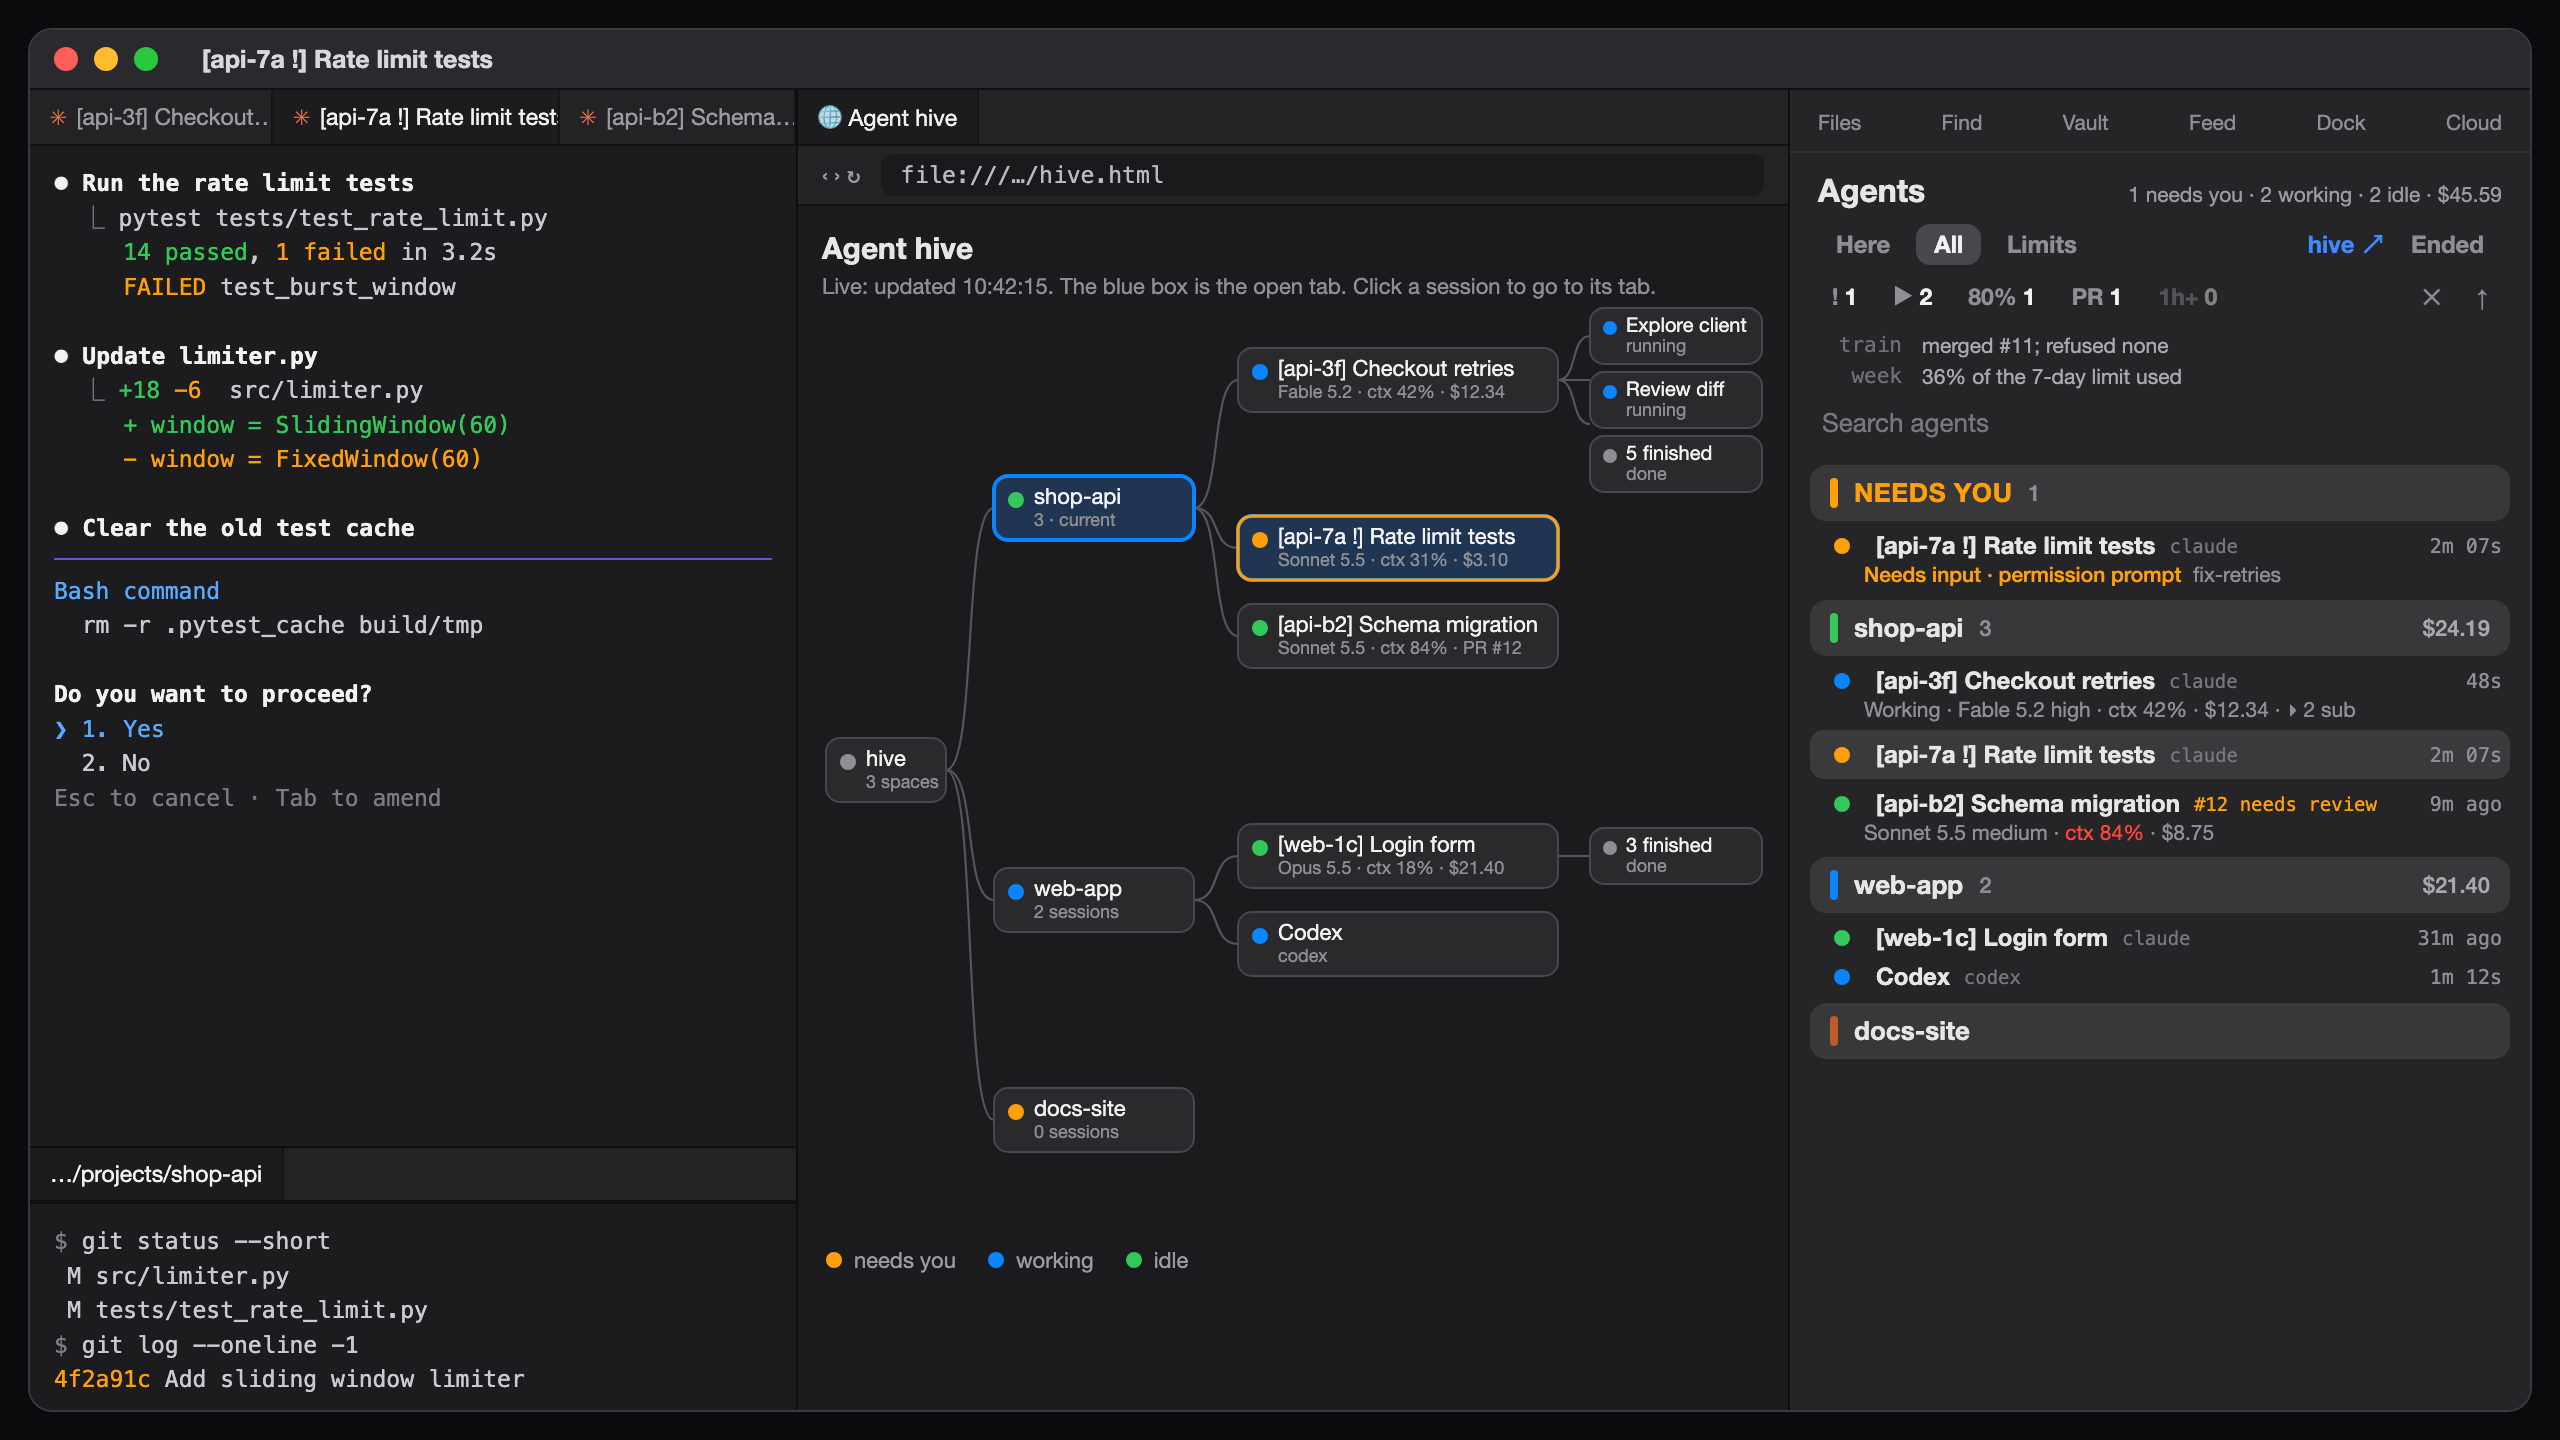
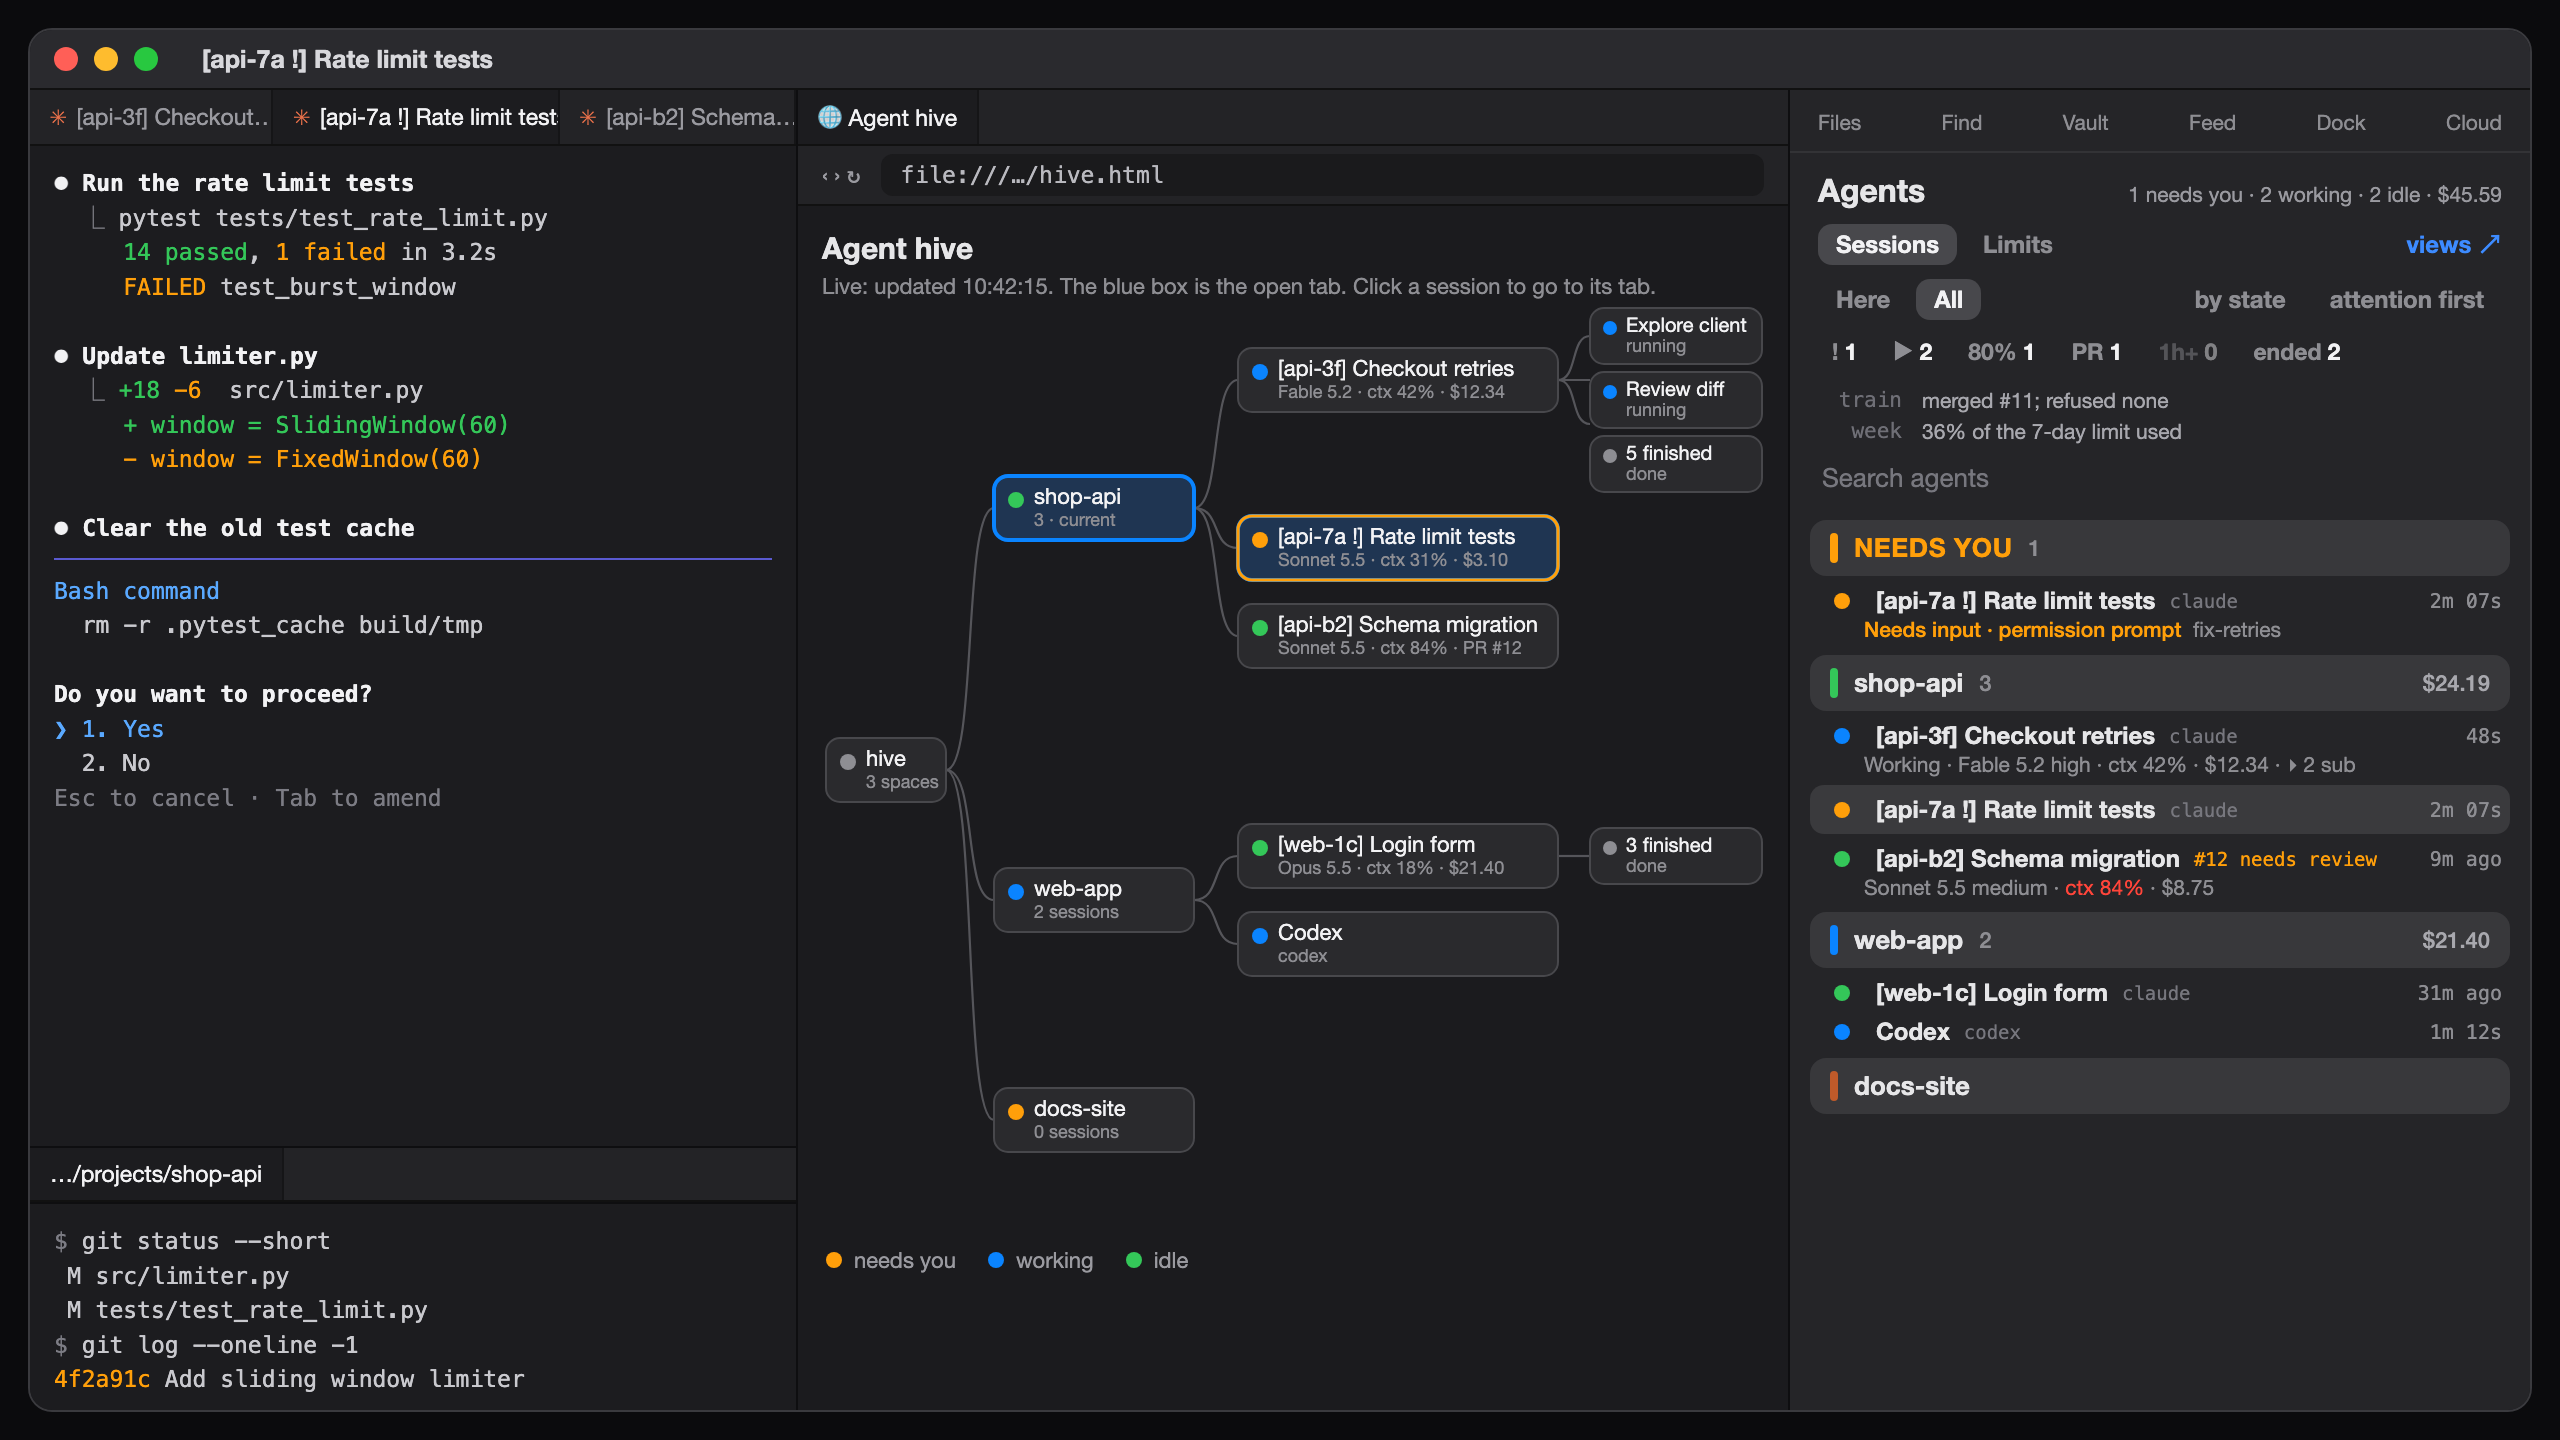
Docs: account guide covers Grok accounts and the start menu; first picture shows the new control rows
Claude-Session: https://claude.ai/code/session_01HXnduJEMf4sVkPrvQkemg9

diff --git a/examples/window.html b/examples/window.html
@@ -151,8 +151,9 @@
     <div class="col panel">
       <div class="ptop"><span>Files</span><span>Find</span><span>Vault</span><span>Feed</span><span>Dock</span><span>Cloud</span></div>
       <div class="phead"><b>Agents</b><span>1 needs you · 2 working · 2 idle · $45.59</span></div>
-      <div class="row"><span class="btn">Here</span><span class="btn on">All</span><span class="btn">Limits</span><span class="sp"></span><span class="link">hive ↗</span><span class="btn">Ended</span></div>
-      <div class="row"><span class="chip">!<i>1</i></span><span class="chip">▶<i>2</i></span><span class="chip">80%<i>1</i></span><span class="chip">PR<i>1</i></span><span class="chip zero">1h+<i>0</i></span><span class="sp"></span><span class="chip">✕</span><span class="chip">↑</span></div>
+      <div class="row"><span class="btn on">Sessions</span><span class="btn">Limits</span><span class="sp"></span><span class="link">views ↗</span></div>
+      <div class="row"><span class="btn">Here</span><span class="btn on">All</span><span class="sp"></span><span class="btn">by state</span><span class="btn">attention first</span></div>
+      <div class="row"><span class="chip">!<i>1</i></span><span class="chip">▶<i>2</i></span><span class="chip">80%<i>1</i></span><span class="chip">PR<i>1</i></span><span class="chip zero">1h+<i>0</i></span><span class="chip">ended<i>2</i></span><span class="sp"></span></div>
       <div class="strip"><span>train</span><span>merged #11; refused none</span><span>week</span><span>36% of the 7-day limit used</span></div>
       <div class="search">Search agents</div>
 

diff --git a/ACCOUNTS.md b/ACCOUNTS.md
@@ -8,7 +8,7 @@ the part "Several accounts" in the [README](README.md). The names here (`persona
 - **One primary account per tool.** It lives in the tool's normal folder (`~/.claude`, `~/.codex`) and needs
   no setup. Name it on the `default` line of the accounts file. It never gets a second folder.
 - **Extra accounts.** Each one has its own folder, `~/.<tool>-<name>`. The launcher sets one variable
-  (`CLAUDE_CONFIG_DIR`, `CODEX_HOME`, `XDG_DATA_HOME`) so the tool uses that folder.
+  (`CLAUDE_CONFIG_DIR`, `CODEX_HOME`, `XDG_DATA_HOME`, `GROK_HOME`) so the tool uses that folder.
 - **One name per organisation, in every tool.** A folder rule holds one account name. If Claude Code calls
   the account `work` and Codex calls it `job`, a rule to `work` starts Codex on the primary account.
 - All of it is described by one text file, `~/.config/cmux/agents-accounts`.
@@ -47,7 +47,11 @@ the part "Several accounts" in the [README](README.md). The names here (`persona
    account name, and the panel row reads `claude · work`. The limit line of that account in `Limits` fills
    after this first reply, not before.
 
-For Codex or OpenCode, use `codex` or `opencode` in place of `claude` in steps 1 and 2.
+For Codex, OpenCode or Grok Build, use `codex`, `opencode` or `grok` in place of `claude` in steps 1 and 2.
+For Grok the login command is `grok login`, started through the launcher with that account. The author moved
+Grok's data folder with `GROK_HOME` in a test; a second Grok login was not tested.
+
+You can also add an account from the panel: right-click a workspace header, then `Add account`.
 
 ## Folder rules
 
@@ -66,7 +70,8 @@ tool gets there. For one start against the rule, name the account: `cla personal
 
 | Command | What it does |
 |---|---|
-| `claude`, `codex`, `opencode` | Start with the account that the folder rules choose |
+| `claude`, `codex`, `opencode`, `grok` | Start with the account that the folder rules choose |
+| Right-click a workspace header in the panel | A menu of the tools found on this Mac; a tool with several accounts opens a list of them, the default one marked |
 | `cla <account> [arguments]` | Claude Code with that account, for this start only |
 | `cdx <account> [arguments]` | Codex with that account, for this start only |
 | `accounts` | The account list, and the account that the current folder gets |
@@ -131,7 +136,7 @@ folder, with no spaces. A bad line is skipped and reported by its number: run
 | Account chips | One chip per account with its row count, when sessions run on two accounts or more |
 | Search | The account name matches, in every workspace |
 | `≠ work` | The folder rule names `work`, and the session runs on another account |
-| `Limits` | One limit line per tool and account, and the summed cost of the open Claude Code sessions per account |
+| `Limits` | `by account`: one group per account with its tools and its cost. `by tool`: one group per tool with its accounts, to see which account has room |
 | Notification | One warning when a limit window of an account passes 80% |
 | Hive page | The account name on each session box, in its colour |
 | Status line | The account name first, in its colour, on an extra account |
@@ -146,6 +151,7 @@ only way to change it.
 | Claude Code | Settings, instructions, hooks, rules, skills, agents, commands, output styles, plugins, status line, workflows, key bindings, teams | The login, sessions and `/resume`, project memory, history, MCP servers added at user level, folder trust answers |
 | Codex | `config.toml`, `AGENTS.md`, `instructions.md`, `hooks.json`, rules, skills, agents, plugins, key bindings | The login, sessions, memories, history |
 | OpenCode | Nothing is linked; its settings stay in `~/.config/opencode` | The login and the sessions |
+| Grok Build | Nothing is linked; `GROK_HOME` holds the settings too | Everything: settings, login, sessions, skills, plugins, logs |
 
 A change to a shared file reaches every account at once. Memory is separate on purpose: a work account does
 not read personal notes.

diff --git a/README.md b/README.md
@@ -575,7 +575,7 @@ Tab labels stay until you rename the tabs or close them.
 - The wrong-account mark, the limit warning and the Codex account tag were tested with sample data and stub commands, not on live sessions.
 - OpenCode, Grok Build and Antigravity leave no limit figure in their local files, as far as their table and key names show. OpenCode keeps a cost per session; the panel does not show it yet.
 - The next step, the compaction count and the marks `dup` and `↑` were tested with sample data; on one Mac the next step and the count showed in the data. The new chips `you` and `push` were not seen on screen, and the chip row can be too wide for a narrow sidebar.
-- The compact layout, the top rows (counts, `Here | All | Limits`, chips, search field) and the limit bars were tested in the runtime with invented data; their look on screen (widths, cut text) was not checked by the author of the change.
+- The compact layout, the top rows (counts, `Sessions | Limits`, `Here | All`, chips, search field) and the limit bars were tested in the runtime with invented data; their look on screen (widths, cut text) was not checked by the author of the change.
 - `Clear filters` clears the search text that filters the list. The search field may still show the typed text; this was not checked on screen.
 - `Terminal` opens a plain tab. A start item such as `Codex` → `team` opens a tab that runs `agent-run.sh` with that tool and account in your login shell; a shell stays open when the tool ends. The start menu needs `agent-run.sh` installed by `install.sh`. Claude Code, Codex, OpenCode and Grok start through the launcher, one item per account. Antigravity keeps one account, so it gets one item that runs its own command (`agy`). An extra tool gets one item that runs its command word. The commands and folders of the extra tools come from each tool's docs or repo; a tool that changes its command or folder drops out of the menu until you fix it in `agents-tools`.
 - Several Grok accounts: the author moved Grok's data folder with `GROK_HOME` in a test. A second Grok login was not tested.
